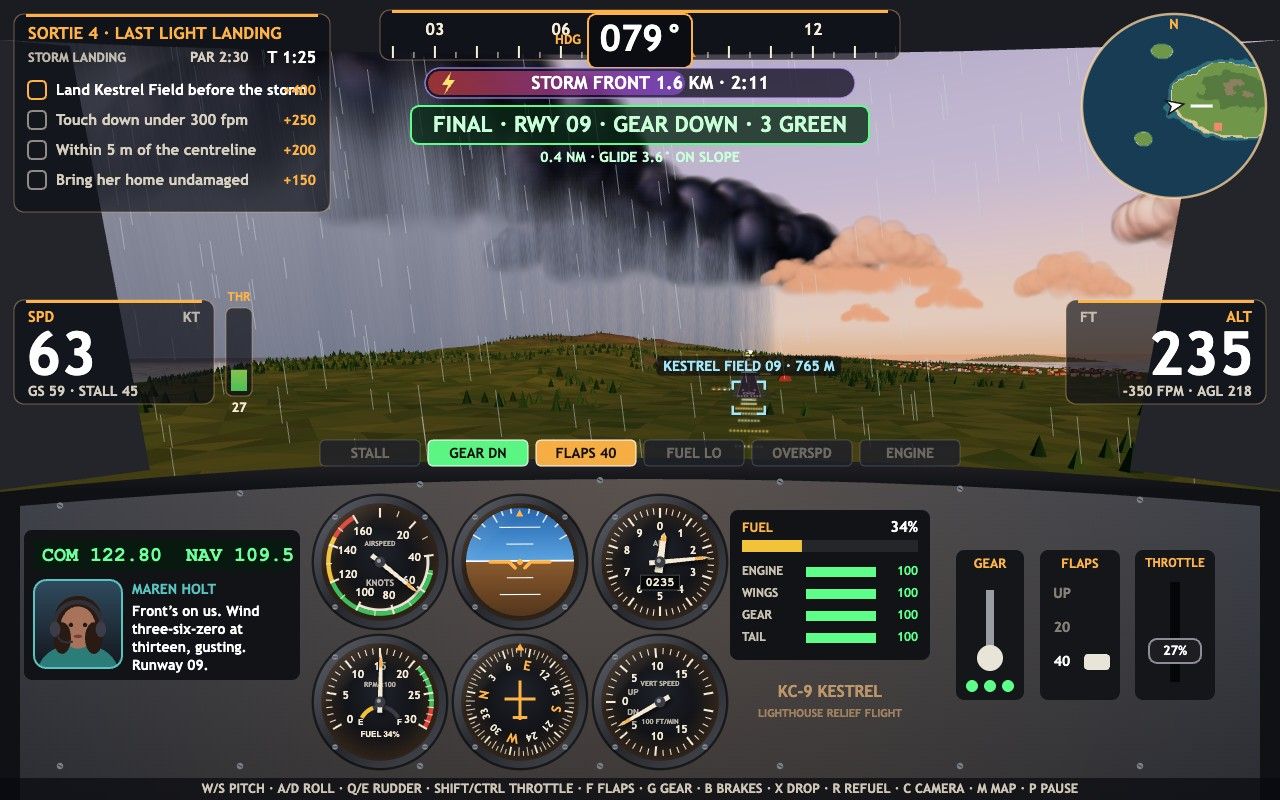
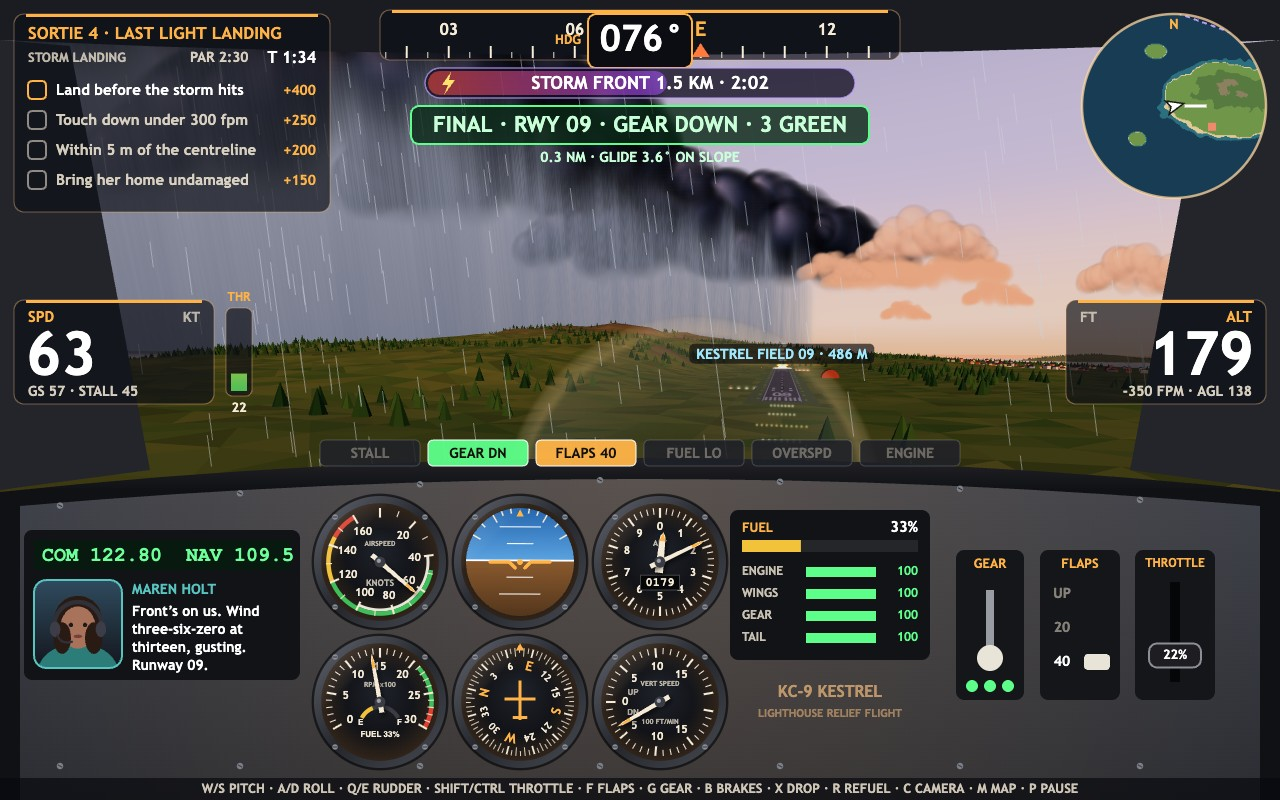
Cockpit view shows the prop disc from the seat, closer stormy final with the runway clear of the target bracket, checklist labels fit

diff --git a/game/src/hud.js b/game/src/hud.js
@@ -168,7 +168,9 @@ function objectivesPanel(g, x, y, session) {
     let label = o.text;
     if (o.id === 'rings') label = `${o.text} ${session.nextRing}/${session.rings.length}`;
     if (o.id === 'par') label = `${o.text} ${clock(m.par)}`;
-    text(g, label, x + 42, ry + 1, 15, o.done ? 'rgba(246,236,216,0.6)' : next ? '#ffffff' : 'rgba(246,236,216,0.85)', 'left', next ? 700 : 600);
+    g.font = `700 15px ${FONT}`;
+    const size = Math.min(15, Math.floor((15 * (w - 110)) / Math.max(1, g.measureText(label).width)));
+    text(g, label, x + 42, ry + 1, size, o.done ? 'rgba(246,236,216,0.6)' : next ? '#ffffff' : 'rgba(246,236,216,0.85)', 'left', next ? 700 : 600);
     text(g, `+${o.reward}`, x + w - 14, ry + 1, 14, o.done ? GREEN : AMBER, 'right');
   });
 }
@@ -346,7 +348,9 @@ function targetMarker(g, frame, target, labelText, colour) {
     const s = 16;
     g.strokeStyle = colour;
     g.lineWidth = 2.5;
-    for (const [dx, dy] of [[-1, -1], [1, -1], [-1, 1], [1, 1]]) {
+    // On final the runway itself is the target: label it, keep the threshold clear.
+    const corners = frame.approach?.final && target.runway ? [] : [[-1, -1], [1, -1], [-1, 1], [1, 1]];
+    for (const [dx, dy] of corners) {
       g.beginPath();
       g.moveTo(p.x + dx * s, p.y + dy * (s - 8));
       g.lineTo(p.x + dx * s, p.y + dy * s);
@@ -357,10 +361,11 @@ function targetMarker(g, frame, target, labelText, colour) {
     g.font = `800 14px ${FONT}`;
     const label = `${labelText} · ${distText}`;
     const lw = g.measureText(label).width + 14;
+    const ly = corners.length ? p.y - s - 26 : p.y - 58;
     g.beginPath();
-    g.roundRect(p.x - lw / 2, p.y - s - 26, lw, 20, 5);
+    g.roundRect(p.x - lw / 2, ly, lw, 20, 5);
     g.fill();
-    text(g, label, p.x, p.y - s - 15, 14, colour, 'center', 800);
+    text(g, label, p.x, ly + 11, 14, colour, 'center', 800);
     return;
   }
   let dx = p.x - W / 2;
@@ -452,7 +457,7 @@ export function currentTarget(session) {
   if (m.boat && !session.crate?.landed) return { x: m.boat.x, y: 4, z: m.boat.z, label: 'FLARE BOAT', colour: '#ff6a5a' };
   const strip = AIRSTRIPS.find((s) => s.id === (m.finish === 'land-puffin' ? 'puffin' : 'kestrel'));
   const t = runwayThreshold(strip, m.id === 'rescue' && false);
-  return { x: t.x, y: strip.elev, z: t.z, label: `${strip.name.toUpperCase()} ${t.name}`, colour: '#9fe8ff' };
+  return { x: t.x, y: strip.elev, z: t.z, label: `${strip.name.toUpperCase()} ${t.name}`, colour: '#9fe8ff', runway: true };
 }
 
 /**

diff --git a/game/src/aircraft-model.js b/game/src/aircraft-model.js
@@ -115,24 +115,23 @@ export function createAircraftModel() {
   const tyre = new THREE.MeshStandardMaterial({ color: '#1d1d20', roughness: 0.9 });
   const glass = new THREE.MeshStandardMaterial({ color: '#4a6c8c', roughness: 0.08, metalness: 0.3, emissive: '#7a5238', emissiveIntensity: 0.45 });
 
+  // The cabin shell: hidden from the pilot's seat, where the panel overlay stands in for it.
+  const cabin = new THREE.Group();
+  body.add(cabin);
   const fuselage = new THREE.Mesh(loftFuselage(), paint);
   fuselage.castShadow = true;
-  body.add(fuselage);
-
-  // Cabin glass.
+  cabin.add(fuselage);
   const windshield = part(new THREE.BoxGeometry(1.16, 0.05, 1.05), glass, 0, 0.83, -2.25);
   windshield.rotation.x = -0.62;
-  body.add(windshield);
+  cabin.add(windshield);
   for (const side of [-1, 1]) {
     const pane = part(new THREE.BoxGeometry(0.05, 0.52, 1.0), glass, side * 0.68, 0.55, -1.45);
     const rear = part(new THREE.BoxGeometry(0.05, 0.46, 0.8), glass, side * 0.66, 0.53, -0.2);
-    body.add(pane, rear);
+    cabin.add(pane, rear);
     const letters = new THREE.Mesh(new THREE.PlaneGeometry(1.9, 0.48), new THREE.MeshBasicMaterial({ map: tailLetters(), transparent: true, depthWrite: false }));
     letters.position.set(side * 0.5, 0.35, 1.9);
-    letters.rotation.y = side * Math.PI / 2 * -1 + (side < 0 ? Math.PI : 0);
     letters.rotation.y = side > 0 ? Math.PI / 2 : -Math.PI / 2;
-    if (side < 0) letters.scale.x = 1;
-    body.add(letters);
+    cabin.add(letters);
   }
 
   // High wing with tips, ailerons, flaps and struts.
@@ -263,7 +262,7 @@ export function createAircraftModel() {
   }
   const strobe = navLights[2];
 
-  return { root, body, prop, blades, disc, ailerons, flaps, elevator, rudder: rudderPivot, gear, strobe, wingTips: [new THREE.Vector3(-6.2, 1.0, -0.5), new THREE.Vector3(6.2, 1.0, -0.5)] };
+  return { root, body, cabin, prop, blades, disc, ailerons, flaps, elevator, rudder: rudderPivot, gear, strobe, wingTips: [new THREE.Vector3(-6.2, 1.0, -0.5), new THREE.Vector3(6.2, 1.0, -0.5)] };
 }
 
 /** Pose the model from the aircraft state and the pilot's inputs. */

diff --git a/game/src/world-scene.js b/game/src/world-scene.js
@@ -71,7 +71,10 @@ export function createWorldScene(canvas) {
     const a = session.aircraft;
     rig.mode = view;
     poseAircraftModel(model, a, controls, time, dt);
-    model.root.visible = view !== VIEW_COCKPIT || Boolean(a.crashed);
+    // From the pilot's seat the wing roots, struts and prop disc stay in view; the cabin shell does not.
+    model.root.visible = true;
+    model.cabin.visible = view !== VIEW_COCKPIT || Boolean(a.crashed);
+    model.gear.visible = model.gear.visible && view !== VIEW_COCKPIT;
     model.root.updateMatrixWorld(true);
     updateCamera(rig, a, dt, snap);
     updateEffects(fx, a, model, dt, time);

diff --git a/game/src/chase-camera.js b/game/src/chase-camera.js
@@ -24,7 +24,7 @@ export function updateCamera(rig, aircraft, dt, snap = false) {
   upVec.set(0, 1, 0).applyQuaternion(q);
   const p = new THREE.Vector3(aircraft.pos.x, aircraft.pos.y, aircraft.pos.z);
   if (rig.mode === VIEW_COCKPIT) {
-    camera.position.copy(new THREE.Vector3(0, 1.02, -1.15).applyQuaternion(q).add(p));
+    camera.position.copy(new THREE.Vector3(-0.3, 0.84, -1.35).applyQuaternion(q).add(p));
     camera.quaternion.copy(q).multiply(new THREE.Quaternion().setFromAxisAngle(new THREE.Vector3(1, 0, 0), -0.07));
     camera.fov = 72;
     camera.updateProjectionMatrix();

diff --git a/game/src/shots.js b/game/src/shots.js
@@ -50,7 +50,7 @@ export function stageShot(name, seed) {
     const session = createSession('storm', seed);
     const pilot = pilotFor(session);
     const t = runwayThreshold(AIRSTRIPS[0], false);
-    const lead = 760 + SETTLE_STEPS * STEP * 32;
+    const lead = 480 + SETTLE_STEPS * STEP * 32;
     flyUntil(session, pilot, (s) => Math.abs(s.aircraft.pos.z - t.z) < 40 && Math.hypot(s.aircraft.pos.x - t.x, s.aircraft.pos.z - t.z) < lead, 240);
     return { screen: 'fly', session, view: 'cockpit', pilot, settle: SETTLE_STEPS };
   }

diff --git a/game/src/missions.js b/game/src/missions.js
@@ -74,7 +74,7 @@ export const MISSIONS = [
     rain: true,
     finish: 'land-kestrel',
     objectives: [
-      { id: 'land-kestrel', text: 'Land Kestrel Field before the storm', reward: 400 },
+      { id: 'land-kestrel', text: 'Land before the storm hits', reward: 400 },
       { id: 'soft-touch', text: 'Touch down under 300 fpm', reward: 250 },
       { id: 'centreline', text: 'Within 5 m of the centreline', reward: 200 },
       { id: 'no-damage', text: 'Bring her home undamaged', reward: 150 },
